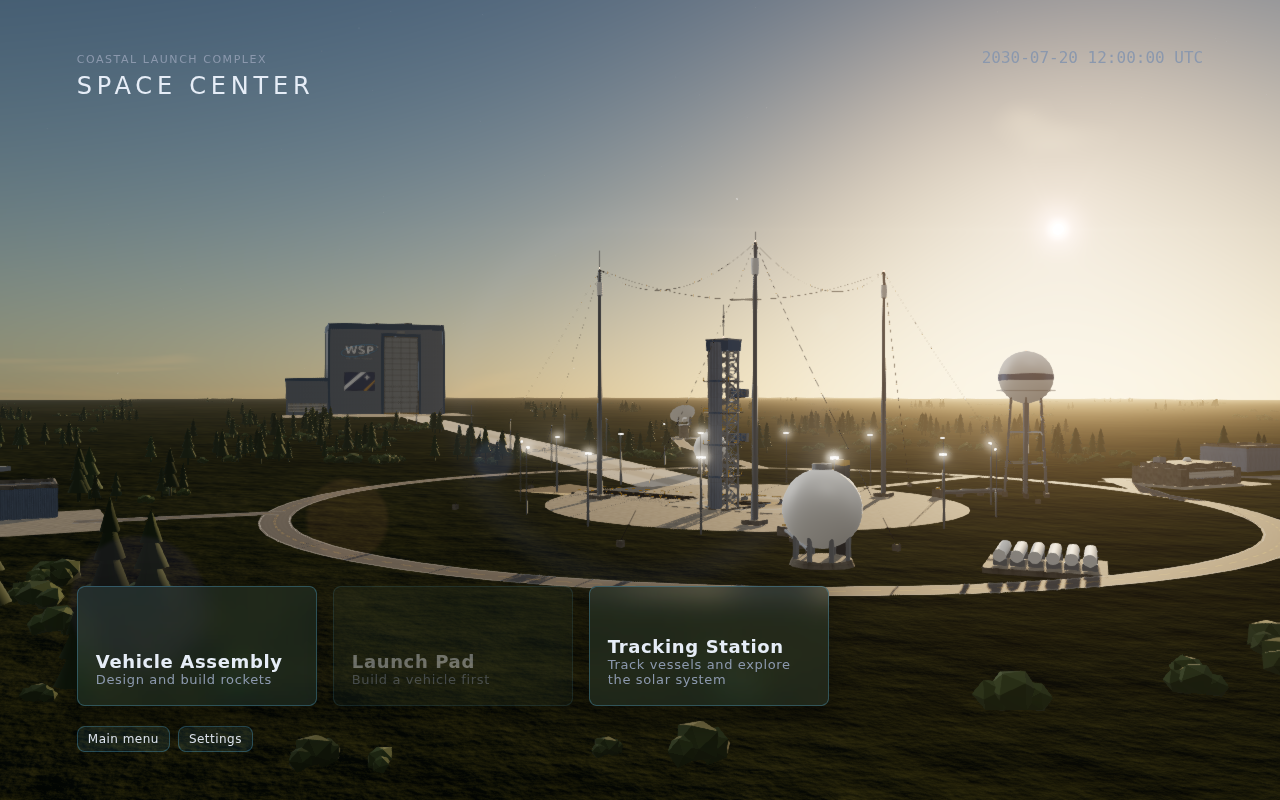
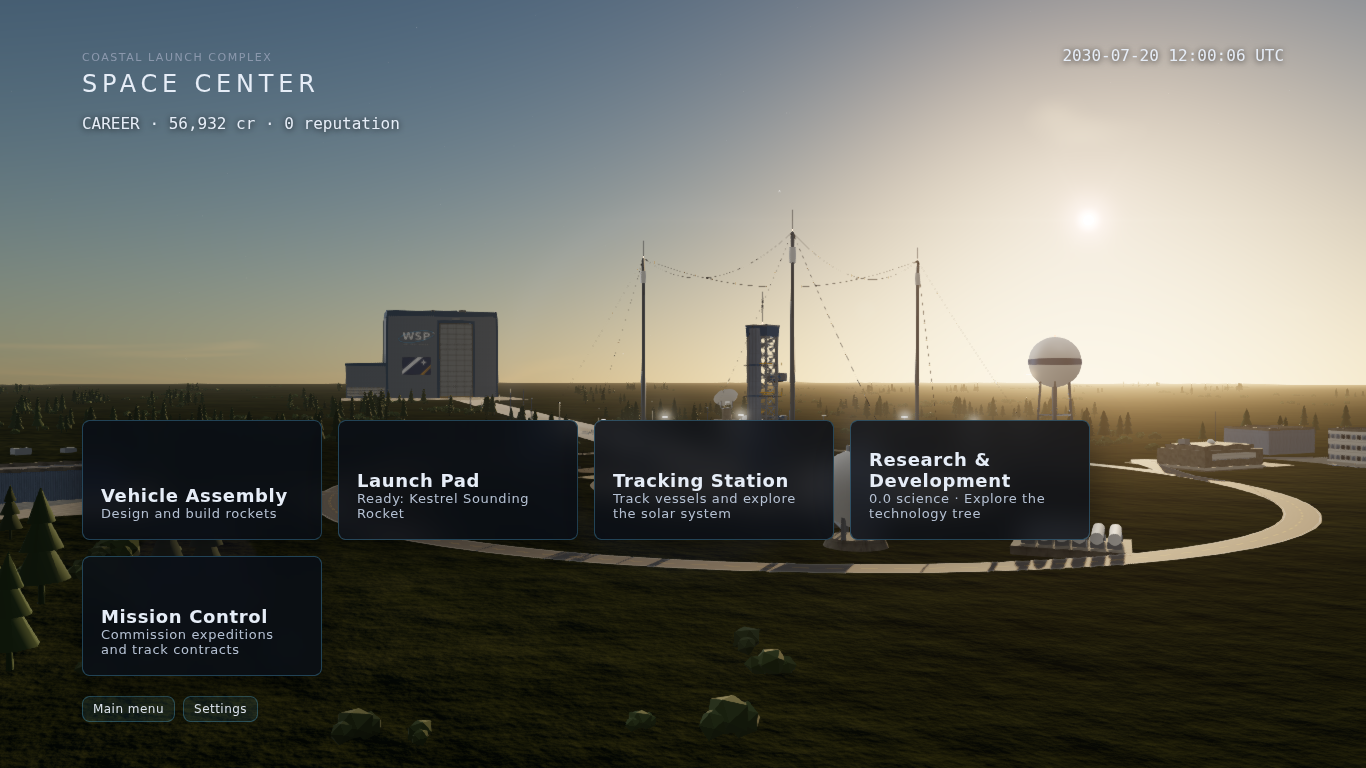
Tracking Station focuses the fleet; QA notes, decisions and fresh screenshots

diff --git a/src/ui/tracking/TrackingStation.tsx b/src/ui/tracking/TrackingStation.tsx
@@ -34,6 +34,9 @@ export default function TrackingStation() {
   useEffect(() => {
     const renderer = new TrackingView(host.current!, world, update, setFocus);
     view.current = renderer;
+    // Start on the player's fleet rather than a whole-solar-system view.
+    const first = (world.activeId && world.vessels.get(world.activeId)) || world.vessels.values().next().value;
+    if (first) renderer.setFocus({ kind: 'vessel', id: first.state.id });
     return () => {
       renderer.dispose();
       view.current = null;

diff --git a/PROGRESS.md b/PROGRESS.md
@@ -29,7 +29,8 @@ Dev shortcuts:
 | , . / | time warp down / up / stop |
 | V | camera mode (auto / chase / free) |
 | G / B (hold) | landing gear toggle / wheel brakes |
-| Esc | pause menu |
+| Esc | pause menu (recover, revert to launch/editor, quickload, settings) |
+| F1 / ? button | controls cheat sheet (shown automatically on the first flight) |
 | Mouse drag / wheel | orbit camera / zoom |
 
 ## Status
@@ -95,3 +96,13 @@ See DECISIONS.md for choices made autonomously.
 - API: `new World(universe, catalog, ut, mode?)`, `world.progression`, `scienceContext`, `scienceInstruments`, `runExperiment(uid, experiment)`, `transmitScience`, `unlockTech`, `refreshContracts`, `acceptContract`, `abandonContract`, `recoverVessel(id)` / `recoverActive`. Event entry points: `onReachedOrbit`, `onLanded`, `onEnteredSoi`, `onScienceCollected`, `onRecovered`, plus `emitProgress`. Persistence: optional `SavedWorld.mode/progression`; `PartState.scienceData/visitedBodies/purchaseCost`. New scenes `research` and `missions` support the existing `?scene=` hook.
 - Verification: `tests/science.test.ts` adds 14 focused tests covering named-biome coverage/determinism, all-body/scaled situations, science decay/subjects, transmit/recovery idempotency, EVA boarding and detached instruments, complete tech assignment/editor gates, launch costs/refunds, contract event completion/deadlines/return provenance, rails milestones, and legacy/career save round trips. Full suite: 35 files / 397 tests. TypeScript and production build checked. Browser checks through `scripts/shot.mjs` at localhost:5173 covered mode choice, career creation/autosave, mission acceptance, research graph, flight Run/Transmit/Review and biome contract completion. Screenshots are in `/tmp/wsp-new-game.png`, `/tmp/wsp-research-career.png`, `/tmp/wsp-missions.png`, `/tmp/wsp-science-flight.png`. A complete UI pass also verified the initial career launch debit, full recovery credit/refund, research spending, autosave and Continue (`/tmp/wsp-career-flow.png`). Existing three.js shadow-map deprecation warning and the production three.js chunk-size warning remain.
 - Limits: transmission is instant with no charge draw, range, line-of-sight, relay routing or data mass. Contract refresh is manual; no part-testing, rescue, or agency variety. Research tiers are cost/category based and balance has not been playtested through a complete career on every scale. Biomes approximate the procedural terrain rather than authoritative geographic maps. The science panel uses the existing desktop HUD layout. No commits made; adjacent integration includes render mesh registry, vessel clone/runtime types, tracking recovery and editor toolbar.
+
+## First-play QA pass (2026-10-04)
+
+- HUD declutter: left dock with Assist / Crew / Science / Target toggles (persisted); target panel expands only with a target, crew opens on EVA, map planner shares the column. Right column stacks orbit + resources. Checked at 1280×800, 1366×768 and 1920×1080.
+- Orbital readouts show dashes while landed/prelaunch. Staging: next stage at the bottom with a Stage button; burning engines stay as the "Active" stage; numbering matches the editor (highest fires first).
+- First-flight help overlay (F1 / ?), flight loading screen (waits for focused-planet terrain, 20 s cap), pause menu: Revert to launch, Quickload, Controls, Settings (volume/invert live; quality rebuilds the scene from a snapshot). Keys are ignored while paused; Esc closes help/settings first and never dismisses "Vessel lost".
+- Transfer planner: Moon transfers failed ("No transfer window found") from most post-assist parking orbits because a grazing SOI hit scored worse than a near miss; a squashed-cost retry now finds them (1 s). Planner shows "Planning…" feedback.
+- Editor: top bar no longer clips the Launch/exit buttons at ≤1366 px; Launch warns once for TWR < 1 / no engines; load dialog flags stock craft needing research; Kestrel uses starter parts so new Science/Career programs can fly a stock rocket.
+- Hub tiles readable over the bright sky; recovery summary on the hub; New Game warns it replaces the program and clears the old quicksave; Continue restores the last editor craft; Tracking Station starts focused on the fleet.
+- Known remaining: AudioContext autoplay warnings when entering flight without a prior gesture (dev URLs only); synchronous transfer search briefly freezes the UI; tech-tree page relies on page scroll at 768 px height.

diff --git a/DECISIONS.md b/DECISIONS.md
@@ -16,3 +16,4 @@ Decisions made autonomously while the owner was away. Each can be revisited.
 - **D-012 Aircraft**: jets are `EngineModule`s with `airBreathing` (thrust = static thrust × Mach curve × (ρ/1.225)^k × intake-air fraction; fuel-only Isp, liquid fuel only). Intake air is produced every step and never stored (leftovers vented), so starvation at altitude/low speed is immediate; jets flame out below 15 % supply and relight automatically. Wheels are spring/damper suspensions with an impulse tyre model (lateral grip with sticky/sliding μ, rolling resistance, brakes inside a friction circle); steering fades with speed. Editor core now uses the catalogue surface-mount convention (srf node / −Z face); SPH crafts build horizontally (view-only rotation, craft +Y stays the nose) and launch on the runway (`World.launch(craft, 'runway')`, free on their wheels, no clamps).
 - **D-013 Science / career**: `World.mode` defaults to `sandbox`; optional `SavedWorld.mode/progression` preserve version-1 saves. Science and career use the same 25-node research tree (foundation + six four-tier paths). Career starts with 60,000 credits; science starts at zero in both modes. A subject is experiment/body/situation plus biome only where that experiment resolves biomes. Recording reserves the next repeat globally (even lost observations consume a repeat); values halve each time, with a finite total of twice the first observation. A vessel can store one observation of each subject at a time. Data lives on the instrument/pod/EVA part, follows splits/docking, and transfers into a pod on boarding. Transmission credits 40% or 65%; Earth recovery credits the remainder, never twice. Antennas currently abstract power, range and line of sight.
 - **D-014 Career economy / commissions**: Three seeded contract kinds: stable orbit, surface expedition with Earth hardware recovery, and biome-dependent science. Maximum three active, 20 Julian years to finish. Each offer pays an advance; failure/abandonment deducts a larger penalty. Surface provenance follows parts, so recovering unrelated Earth hardware cannot satisfy a return contract. Advances/rewards/penalties are 2,000/10,000/3,000 credits × target factor (Earth 1, Moon 2, distant 5); returns have at least factor 2. Recovery refunds paid hardware only at `20% + 80% × exp(-distance/(0.3 × Earth radius))`, by great-circle distance from the launch complex. Tech/affordability checks run before launch mutations, including for loaded craft. Simulation event evaluation happens every physics step and on rails propagation; SOI milestones also observe intermediate rails transitions. Milestones: first Earth orbit (20 science / 15,000 credits), first Moon landing (50 / 30,000), first Saturn entry (150 / 100,000), with +5 reputation in career. Science mode receives only science. Part-test and rescue contracts are deferred.
+- **D-015 First-play UX**: Flight HUD uses a single left dock with toggle chips (state in `wsp.hud.dock.v1`) instead of fixed panels; help overlay seen-flag `wsp.help.seen.v1`; editor craft persisted in `wsp.craft.v1` for Continue. New Game deletes the global quicksave slot. Stage numbers everywhere use the sim convention (highest fires first). Kestrel's tall tank became two starter tanks (same propellant) so every mode has a launchable stock rocket.
